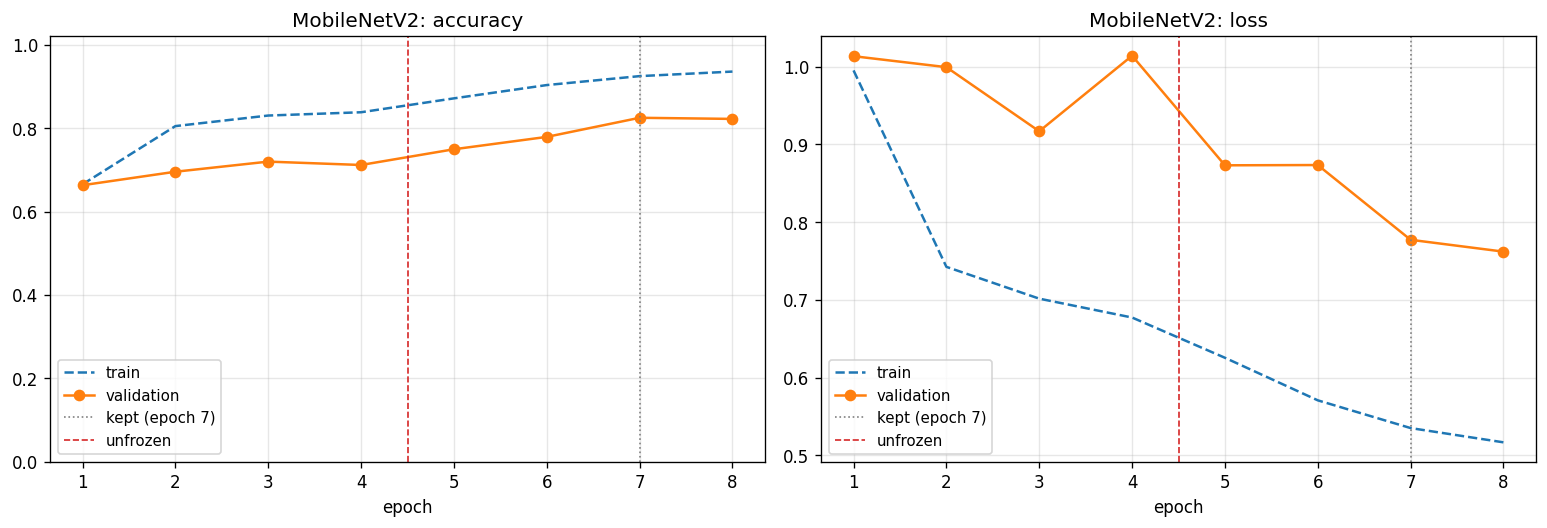
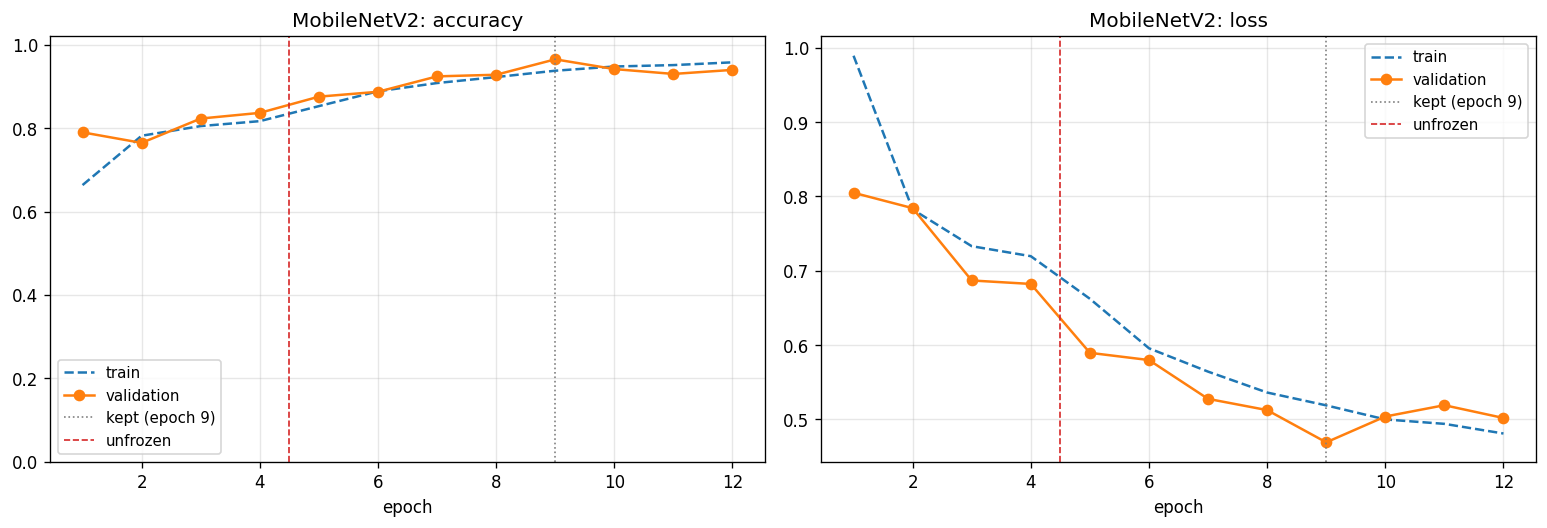
Retrain MobileNetV2 with balanced webcam pictures (palm-facing rock, paper, scissors, none), 12 epochs
Camera test 95.6% (551 board + webcam pictures), validation 96.5%, Kaggle 96.2%.
Fixes the earlier run that called most webcam pictures rock (80.9%).

diff --git a/Models/RESULTS.md b/Models/RESULTS.md
@@ -7,7 +7,7 @@ Our camera test: our own OV7675 pictures in `data/test` (never used for training
 | Model | Kaggle test | Wrong | Our camera test | Best val | Parameters | Trained at start | Epochs | s/epoch | ms/picture |
 |---|---|---|---|---|---|---|---|---|---|
 | Small CNN | **83.1%** | 63/372 | **92.7%** (232 pictures) | 60.1% | 93,636 | 93,636 | 30 | 25 (cuda) | 4.3 |
-| MobileNetV2 | **87.6%** | 46/372 | **99.1%** (232 pictures) | 82.5% | 2,388,356 | 164,484 | 8 | 68 (cuda) | 6.2 |
+| MobileNetV2 | **96.2%** | 14/372 | **95.6%** (551 pictures) | 96.5% | 2,388,356 | 164,484 | 12 | 81 (cuda) | 7.5 |
 
 ## Per class (test set)
 
@@ -16,13 +16,13 @@ Our camera test: our own OV7675 pictures in `data/test` (never used for training
 | Small CNN | paper | 1.000 | 0.758 |
 | Small CNN | rock | 0.738 | 1.000 |
 | Small CNN | scissors | 0.827 | 0.734 |
-| MobileNetV2 | paper | 0.988 | 0.661 |
-| MobileNetV2 | rock | 0.890 | 0.976 |
-| MobileNetV2 | scissors | 0.804 | 0.992 |
+| MobileNetV2 | paper | 0.923 | 0.968 |
+| MobileNetV2 | rock | 0.992 | 1.000 |
+| MobileNetV2 | scissors | 0.974 | 0.919 |
 
 ## Training curves, both models
 
-![Comparison](figures/comparison_curves.png?v=d85fd786)
+![Comparison](figures/comparison_curves.png?v=cc99f43f)
 
 ## Small CNN
 
@@ -36,13 +36,13 @@ Our camera test: our own OV7675 pictures in `data/test` (never used for training
 
 ## MobileNetV2
 
-![MobileNetV2 training curves](figures/mobilenet_training_curves.png?v=d3d2fdf5)
+![MobileNetV2 training curves](figures/mobilenet_training_curves.png?v=dcfe2764)
 
-![MobileNetV2 confusion matrix](figures/mobilenet_confusion.png?v=4ca8ad78)
+![MobileNetV2 confusion matrix](figures/mobilenet_confusion.png?v=7f798e75)
 
-![MobileNetV2 mistakes](figures/mobilenet_mistakes.png?v=4caf7566)
+![MobileNetV2 mistakes](figures/mobilenet_mistakes.png?v=ea1a67e0)
 
-![MobileNetV2 on our camera pictures](figures/mobilenet_own_confusion.png?v=8adff100)
+![MobileNetV2 on our camera pictures](figures/mobilenet_own_confusion.png?v=1b9315d8)
 
 ## Conclusion
 
